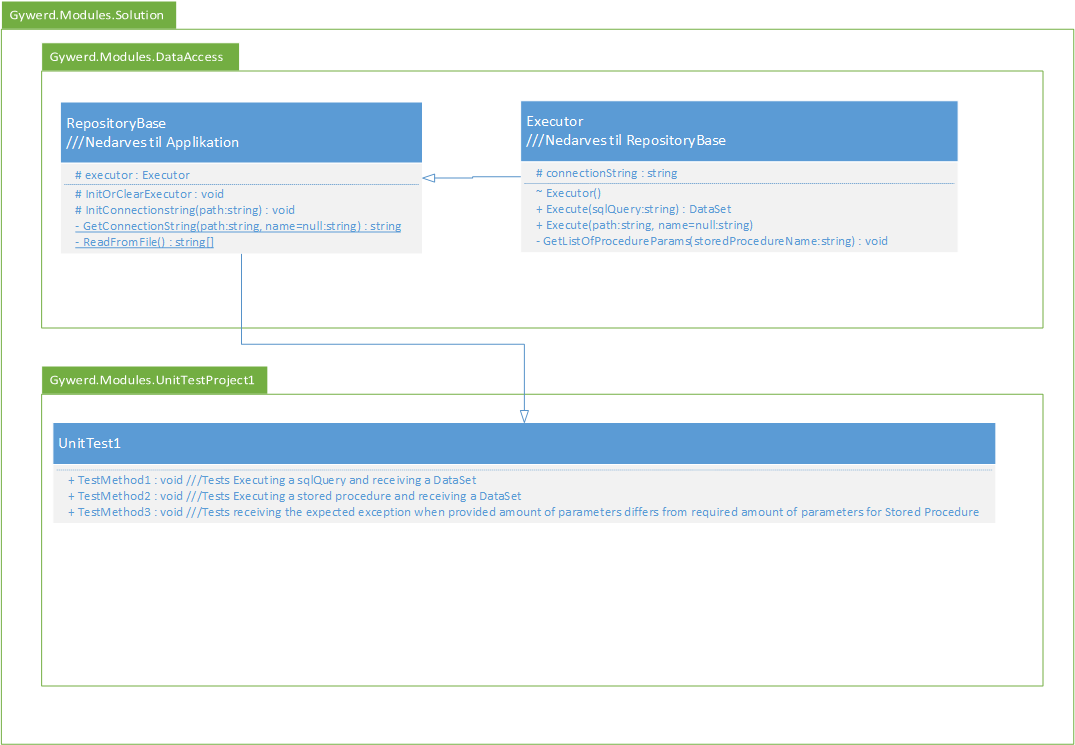
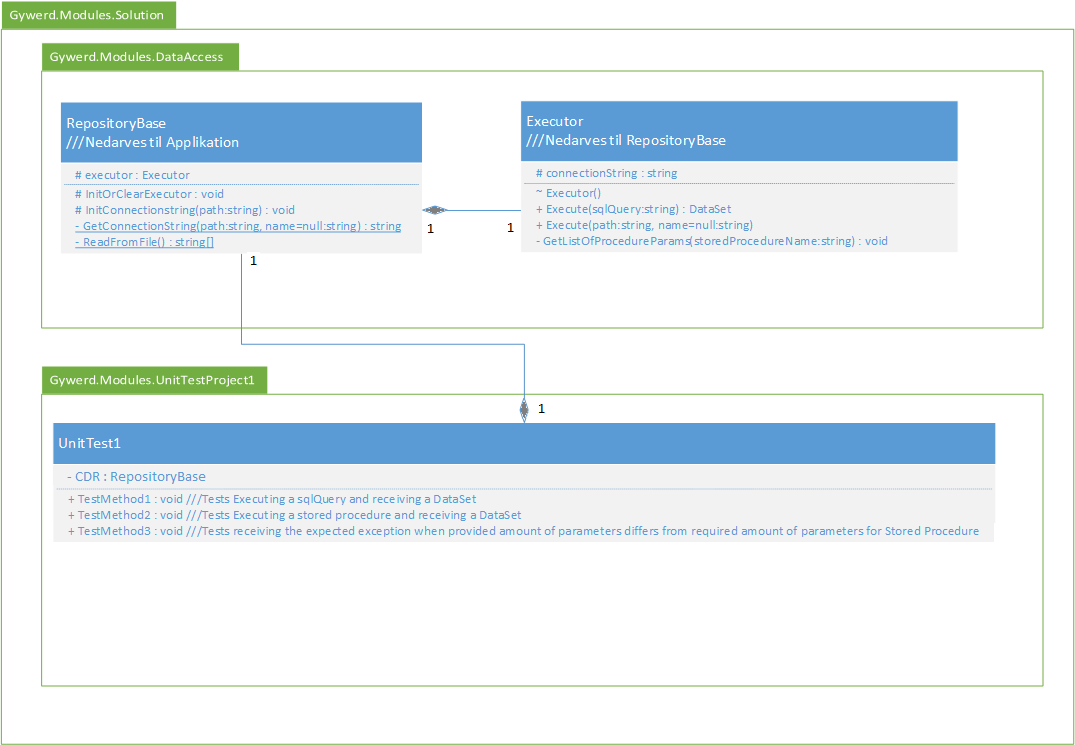
Changed from inheritance to instances

diff --git a/UnitTestProject1/UnitTest1.cs b/UnitTestProject1/UnitTest1.cs
@@ -12,8 +12,10 @@ using System.Windows;
 namespace UnitTestProject1
 {
     [TestClass]
-    public class UnitTest1 : RepositoryBase
+    public class UnitTest1
     {
+        RepositoryBase CDR = new RepositoryBase();
+
         [TestMethod]
         /// <summary>
         /// Tests Executing a sqlQuery and receiving a DataSet
@@ -23,12 +25,12 @@ namespace UnitTestProject1
             // arrange
             string sqlQuery = "SELECT * FROM Persons";
             //Executor executor = new Executor();
-            InitOrClearExecutor();
-            InitConnection("10.205.44.39,49172");
+            CDR.InitOrClearExecutor();
+            CDR.InitConnection("10.205.44.39,49172");
             bool expected = false;
 
             // act  
-            DataSet ds = base.executor.Execute(sqlQuery);
+            DataSet ds = CDR.executor.Execute(sqlQuery);
             string d = Convert.ToString(ds);
             // assert  
             bool actual = ds.Equals(null);
@@ -46,12 +48,12 @@ namespace UnitTestProject1
             string first = "John";
             string last = "Smith";
             //Executor executor = new Executor();
-            InitOrClearExecutor();
-            InitConnection("10.205.44.39,49172");
+            CDR.InitOrClearExecutor();
+            CDR.InitConnection("10.205.44.39,49172");
             bool expected = false;
 
             // act  
-            DataSet ds = base.executor.Execute(storedProcedureName, first, last);
+            DataSet ds = CDR.executor.Execute(storedProcedureName, first, last);
             string d = Convert.ToString(ds);
             // assert  
             bool actual = ds.Equals(null);
@@ -70,11 +72,11 @@ namespace UnitTestProject1
             string storedProcedureName = "GetPersonFromName";
             string first = "John";
             //Executor executor = new Executor();
-            InitOrClearExecutor();
-            InitConnection("10.205.44.39,49172");
+            CDR.InitOrClearExecutor();
+            CDR.InitConnection("10.205.44.39,49172");
 
             // act
-            DataSet ds = base.executor.Execute(storedProcedureName, first);
+            DataSet ds = CDR.executor.Execute(storedProcedureName, first);
                 Assert.Fail("no exception thrown");
 
         }

diff --git a/Gywerd.Modules.DataAccess/RepositoryBase.cs b/Gywerd.Modules.DataAccess/RepositoryBase.cs
@@ -6,10 +6,10 @@ using System.Threading.Tasks;
 
 namespace Gywerd.Modules.DataAccess
 {
-    public class RepositoryBase : Executor
+    public class RepositoryBase
     {
         #region Fields
-        protected Executor executor;
+        public Executor executor;
         #endregion
 
         #region Constructors
@@ -19,7 +19,7 @@ namespace Gywerd.Modules.DataAccess
         /// <summary>
         /// Initiates new or Clears content of executor
         /// </summary>
-        protected void InitOrClearExecutor()
+        public void InitOrClearExecutor()
         {
             executor = new Executor();
         }
@@ -29,7 +29,7 @@ namespace Gywerd.Modules.DataAccess
         /// </summary>
         /// <param name="path">string</param>
         /// <param name="name">strng</param>
-        protected void InitConnection(string path, string name = null)
+        public void InitConnection(string path, string name = null)
         {
             if (name == null)
             {
@@ -61,6 +61,10 @@ namespace Gywerd.Modules.DataAccess
             return res;
         }
 
+        /// <summary>
+        /// Reads data string from file and separates string
+        /// </summary>
+        /// <returns>string[]</returns>
         private static string[] ReadFromFile()
         {
             string text = System.IO.File.ReadAllText(@".\DBPath\conn.config");
